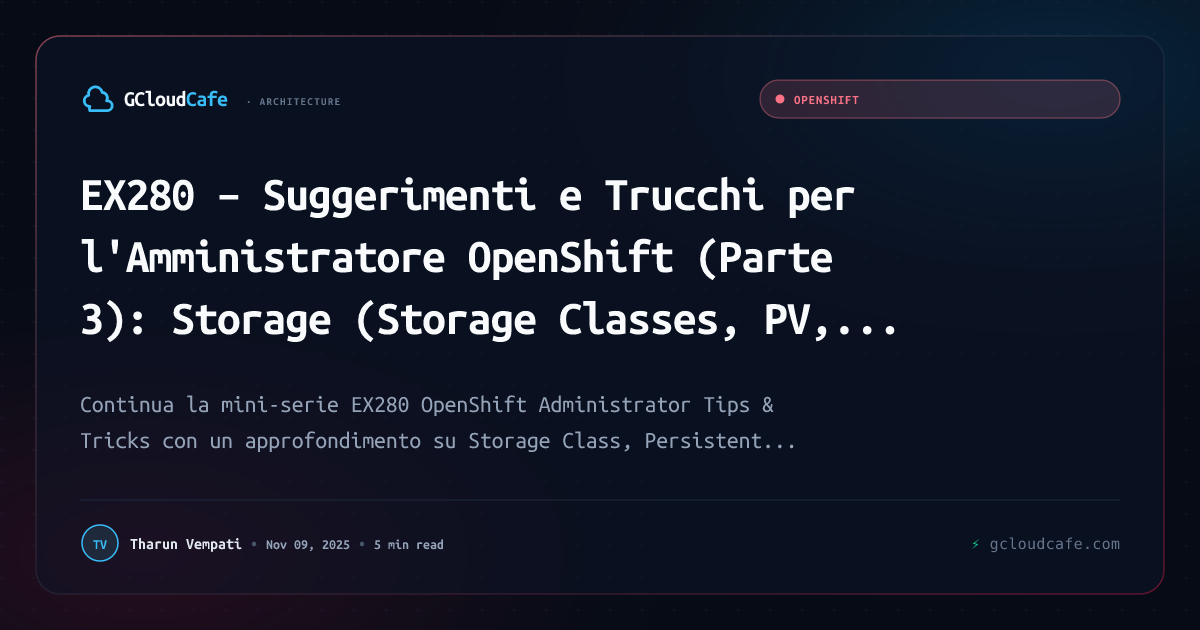
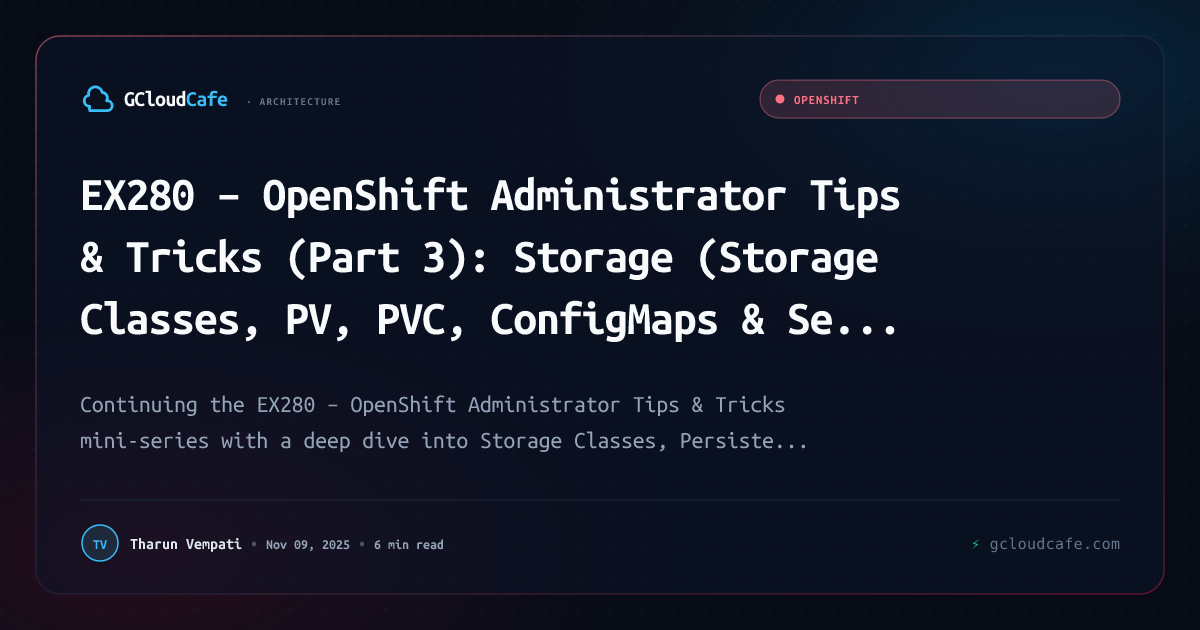
style(blog): standardize code block and terminal styling, elevate article typography and callouts

Changed region(s): [[0.0617, 0.2714, 0.7708, 0.4524], [0.0617, 0.4825, 0.7092, 0.5429], [0.0617, 0.6333, 0.6475, 0.7238]]

diff --git a/assets/js/blog-enhancements.js b/assets/js/blog-enhancements.js
@@ -90,11 +90,7 @@
     if (!blocks.length) return;
 
     blocks.forEach(function (pre) {
-      if (pre.parentNode.classList.contains("code-block-wrapper")) return;
-
-      var wrapper = document.createElement("div");
-      wrapper.className = "code-block-wrapper";
-      pre.parentNode.insertBefore(wrapper, pre);
+      if (pre.parentNode.classList.contains("code-block-wrapper") || pre.closest(".code-block-wrapper")) return;
 
       var code = pre.querySelector("code");
       var rawText = (code || pre).innerText || (code || pre).textContent || "";
@@ -120,7 +116,16 @@
       var iconClass = "fa-solid fa-code";
       var iconColor = "text-sky-400";
       var langLower = (lang + " " + filename).toLowerCase();
-      if (langLower.includes("bash") || langLower.includes("sh") || langLower.includes("shell") || langLower.includes("zsh")) {
+      var isTerminal = (
+        langLower.includes("bash") ||
+        langLower.includes("sh") ||
+        langLower.includes("shell") ||
+        langLower.includes("zsh") ||
+        langLower.includes("terminal") ||
+        langLower.includes("console")
+      );
+
+      if (isTerminal) {
         iconClass = "fa-solid fa-terminal";
         iconColor = "text-emerald-400";
       } else if (langLower.includes("yaml") || langLower.includes("yml")) {
@@ -145,6 +150,12 @@
         iconClass = "fa-solid fa-brackets-curly";
         iconColor = "text-yellow-400";
       }
+
+      var wrapper = document.createElement("div");
+      wrapper.className = isTerminal
+        ? "code-block-wrapper terminal-block-wrapper is-terminal"
+        : "code-block-wrapper editor-block-wrapper is-code";
+      pre.parentNode.insertBefore(wrapper, pre);
 
       // Multi-tab / Multi-CLI support inside code snippet
       // Matches: # [kubectl] or # [gcloud] or # [AWS CLI] or # --- TabName ---
@@ -171,16 +182,27 @@
       }
 
       var header = document.createElement("div");
-      header.className = "code-block-header";
+      header.className = isTerminal
+        ? "code-block-header terminal-header"
+        : "code-block-header editor-header";
 
-      var displayLabel = filename || lang;
-      var badgeHtml = '<span class="lang-tag"><i class="' + iconClass + ' ' + iconColor + ' mr-1 text-[11px]"></i> ' + escapeHtml(displayLabel) + '</span>';
+      var displayLabel = filename || (isTerminal && lang === "CODE" ? "TERMINAL" : lang);
+      var badgeHtml = isTerminal
+        ? '<span class="lang-tag terminal-tag"><i class="' + iconClass + ' ' + iconColor + ' mr-1 text-[11px]"></i> ' + escapeHtml(displayLabel) + '</span>'
+        : '<span class="lang-tag editor-tag"><i class="' + iconClass + ' ' + iconColor + ' mr-1 text-[11px]"></i> ' + escapeHtml(displayLabel) + '</span>';
       var lineCountHtml = '<span class="line-count-tag ml-2 text-slate-500 dark:text-slate-400 font-mono text-[11px]">' + lines.length + (lines.length === 1 ? ' line' : ' lines') + '</span>';
 
-      header.innerHTML = '<div class="flex items-center">' + badgeHtml + lineCountHtml + '</div>';
+      if (isTerminal) {
+        // Command line terminal styling with terminal traffic lights
+        var dotsHtml = '<div class="terminal-dots" aria-hidden="true"><span class="dot-red"></span><span class="dot-yellow"></span><span class="dot-green"></span></div>';
+        header.innerHTML = '<div class="flex items-center gap-3">' + dotsHtml + badgeHtml + lineCountHtml + '</div>';
+      } else {
+        // Clean editor styling for non-terminal code (YAML, Python, SQL, etc.) - NO terminal traffic dots
+        header.innerHTML = '<div class="flex items-center">' + badgeHtml + lineCountHtml + '</div>';
+      }
 
       var btn = document.createElement("button");
-      btn.className = "copy-code-btn blog-focus-ring";
+      btn.className = "copy-code-btn blog-focus-ring" + (isTerminal ? " terminal-copy-btn" : " editor-copy-btn");
       btn.setAttribute("aria-label", "Copy code to clipboard");
       btn.innerHTML = '<i class="fa-regular fa-copy"></i> Copy';
       header.appendChild(btn);
@@ -10500,9 +10522,9 @@
 
     codeBlocks.forEach(function (codeEl) {
       var pre = codeEl.parentElement;
-      if (!pre || pre.closest('.dev-terminal-wrapper')) return;
+      if (!pre || pre.closest('.dev-terminal-wrapper') || pre.closest('.code-block-wrapper')) return;
 
-      // Extract language class e.g. language-bash, language-yaml
+      // Extract language class e.g. language-bash
       var lang = 'terminal';
       var classes = codeEl.className.split(' ');
       for (var i = 0; i < classes.length; i++) {
@@ -10512,14 +10534,20 @@
         }
       }
 
+      var langLower = lang.toLowerCase();
+      var isTerminal = langLower.includes('bash') || langLower.includes('sh') || langLower.includes('shell') || langLower.includes('zsh') || langLower.includes('terminal') || langLower.includes('console');
+      if (!isTerminal) {
+        return; // Only terminal command line blocks receive terminal window chrome
+      }
+
       var wrapper = document.createElement('div');
-      wrapper.className = 'dev-terminal-wrapper';
+      wrapper.className = 'dev-terminal-wrapper code-block-wrapper terminal-block-wrapper is-terminal';
 
       var bar = document.createElement('div');
-      bar.className = 'dev-terminal-bar';
-      bar.innerHTML = '<div class="dev-terminal-dots"><span class="dot-red"></span><span class="dot-yellow"></span><span class="dot-green"></span></div>' +
-                      '<span class="dev-terminal-lang">' + escapeHtml(lang) + '</span>' +
-                      '<button class="dev-copy-btn" aria-label="Copy code to clipboard"><i class="fa-regular fa-copy"></i> Copy</button>';
+      bar.className = 'dev-terminal-bar code-block-header terminal-header';
+      bar.innerHTML = '<div class="dev-terminal-dots terminal-dots" aria-hidden="true"><span class="dot-red"></span><span class="dot-yellow"></span><span class="dot-green"></span></div>' +
+                      '<span class="dev-terminal-lang terminal-tag"><i class="fa-solid fa-terminal text-emerald-400 mr-1 text-[11px]"></i> ' + escapeHtml(lang) + '</span>' +
+                      '<button class="dev-copy-btn copy-code-btn blog-focus-ring" aria-label="Copy code to clipboard"><i class="fa-regular fa-copy"></i> Copy</button>';
 
       pre.parentNode.insertBefore(wrapper, pre);
       wrapper.appendChild(bar);

diff --git a/assets/scss/custom.scss b/assets/scss/custom.scss
@@ -291,15 +291,27 @@ pre code,
   color: #94a3b8;
 
   &::before {
-    content: '';
-    display: inline-block;
-    width: 9px;
-    height: 9px;
-    border-radius: 50%;
-    background: #ef4444;
-    box-shadow: 14px 0 0 #f59e0b, 28px 0 0 #10b981;
-    margin-right: 36px;
+    content: none !important;
+    display: none !important;
+  }
+
+  .terminal-dots,
+  .dev-terminal-dots {
+    display: inline-flex;
+    align-items: center;
+    gap: 0.375rem;
+    margin-right: 0.5rem;
     flex-shrink: 0;
+
+    span {
+      width: 0.625rem;
+      height: 0.625rem;
+      border-radius: 9999px;
+      display: inline-block;
+    }
+    .dot-red { background-color: #ff5f56; }
+    .dot-yellow { background-color: #ffbd2e; }
+    .dot-green { background-color: #27c93f; }
   }
 
   .lang-tag {
@@ -314,6 +326,18 @@ pre code,
     font-size: 0.7rem;
     display: inline-flex;
     align-items: center;
+  }
+
+  .terminal-tag {
+    color: #34d399 !important;
+    background: rgba(16, 185, 129, 0.12) !important;
+    border-color: rgba(16, 185, 129, 0.25) !important;
+  }
+
+  .editor-tag {
+    color: #f1f5f9 !important;
+    background: rgba(30, 41, 59, 0.8) !important;
+    border-color: rgba(51, 65, 85, 0.7) !important;
   }
 
   .line-count-tag {
@@ -1024,31 +1048,50 @@ kbd {
   }
 }
 
-/* ── 2. Developer Terminal Code Block Enhancement ── */
-.dev-terminal-wrapper {
+/* ── 2. Developer Terminal & Editor Code Block Standardization ── */
+.dev-terminal-wrapper,
+.terminal-block-wrapper,
+.code-block-wrapper.is-terminal {
   position: relative;
   margin: 1.75rem 0;
-  border-radius: 1rem;
+  border-radius: 1rem !important;
   overflow: hidden;
-  border: 1px solid rgba(56, 189, 248, 0.2);
-  background: #0d1117;
+  border: 1px solid rgba(56, 189, 248, 0.25) !important;
+  background: #070b14 !important;
   box-shadow: 0 10px 30px -10px rgba(0, 0, 0, 0.5), 0 0 20px -5px rgba(56, 189, 248, 0.08);
   transition: all 0.3s cubic-bezier(0.4, 0, 0.2, 1);
 
   &:hover {
-    border-color: rgba(56, 189, 248, 0.4);
+    border-color: rgba(56, 189, 248, 0.4) !important;
     box-shadow: 0 15px 35px -10px rgba(0, 0, 0, 0.6), 0 0 25px -3px rgba(56, 189, 248, 0.15);
   }
 }
 
-.dev-terminal-bar {
+.editor-block-wrapper,
+.code-block-wrapper.is-code {
+  position: relative;
+  margin: 1.75rem 0;
+  border-radius: 0.875rem !important;
+  overflow: hidden;
+  border: 1px solid #1e293b !important;
+  background: #080d19 !important;
+  box-shadow: 0 8px 24px -6px rgba(0, 0, 0, 0.35);
+  transition: border-color 0.2s ease;
+
+  &:hover {
+    border-color: #334155 !important;
+  }
+}
+
+.dev-terminal-bar,
+.terminal-header {
   display: flex;
   align-items: center;
   justify-content: space-between;
-  padding: 0.5rem 1rem;
-  background: rgba(15, 23, 42, 0.85);
+  padding: 0.55rem 1rem;
+  background: #050811 !important;
   backdrop-filter: blur(12px);
-  border-bottom: 1px solid rgba(255, 255, 255, 0.08);
+  border-bottom: 1px solid rgba(56, 189, 248, 0.15);
   font-family: ui-monospace, SFMono-Regular, Menlo, Monaco, Consolas, monospace;
   font-size: 0.75rem;
 }
@@ -2319,8 +2362,13 @@ table {
 
   code:not(pre code) {
     font-size: 0.875em !important;
-    padding: 0.15em 0.35em !important;
+    padding: 0.18em 0.45em !important;
     border-radius: 0.375rem !important;
+    font-family: ui-monospace, SFMono-Regular, Menlo, Monaco, Consolas, monospace !important;
+    background-color: rgba(226, 232, 240, 0.65) !important;
+    color: #0369a1 !important;
+    border: 1px solid rgba(203, 213, 225, 0.8) !important;
+    font-weight: 500;
   }
 }
 
@@ -2336,26 +2384,55 @@ table {
   h1, h2, h3, h4 {
     color: #f8fafc !important;
   }
+
+  code:not(pre code) {
+    background-color: rgba(30, 41, 59, 0.75) !important;
+    color: #38bdf8 !important;
+    border-color: rgba(51, 65, 85, 0.8) !important;
+    font-weight: 500;
+  }
 }
+
 .blog-article-content blockquote {
-  margin: 1.5rem 0;
-  border-top-right-radius: 1rem;
-  border-bottom-right-radius: 1rem;
-  border-left: 4px solid #94a3b8;
-  background-color: rgba(248, 250, 252, 0.8);
-  padding: 1.125rem 1.25rem;
-  color: #334155;
-  font-style: italic;
+  margin: 1.75rem 0;
+  border-radius: 0 0.875rem 0.875rem 0;
+  border-left: 4px solid #0284c7;
+  background-color: rgba(241, 245, 249, 0.8);
+  border-top: 1px solid rgba(226, 232, 240, 0.7);
+  border-right: 1px solid rgba(226, 232, 240, 0.7);
+  border-bottom: 1px solid rgba(226, 232, 240, 0.7);
+  padding: 1.15rem 1.4rem;
+  color: #1e293b;
+  font-style: normal;
+  box-shadow: 0 2px 8px -2px rgba(0, 0, 0, 0.05);
 }
+
 .dark .blog-article-content blockquote {
-  border-left-color: #475569;
-  background-color: rgba(15, 23, 42, 0.4);
-  color: #cbd5e1;
+  border-left-color: #38bdf8;
+  background-color: rgba(15, 23, 42, 0.65);
+  border-top-color: rgba(30, 41, 59, 0.8);
+  border-right-color: rgba(30, 41, 59, 0.8);
+  border-bottom-color: rgba(30, 41, 59, 0.8);
+  color: #e2e8f0;
+  box-shadow: 0 4px 12px -2px rgba(0, 0, 0, 0.25);
 }
+
 .blog-article-content blockquote p {
   margin: 0;
   font-size: 1.0625rem;
-  line-height: 1.7;
+  line-height: 1.72;
+}
+
+.blog-article-content blockquote code:not(pre code) {
+  background-color: rgba(56, 189, 248, 0.12) !important;
+  color: #0369a1 !important;
+  border-color: rgba(56, 189, 248, 0.25) !important;
+}
+
+.dark .blog-article-content blockquote code:not(pre code) {
+  background-color: rgba(56, 189, 248, 0.18) !important;
+  color: #38bdf8 !important;
+  border-color: rgba(56, 189, 248, 0.3) !important;
 }
 
 

diff --git a/content/english/blog/ex280-tips-part3.md b/content/english/blog/ex280-tips-part3.md
@@ -66,10 +66,11 @@ spec:
     path: /tmp
     server: 172.17.0.2
   persistentVolumeReclaimPolicy: Retain
----
+```
+
 Two fields here are absolutely critical:
-spec.nfs.path
-spec.nfs.server
+- `spec.nfs.path`
+- `spec.nfs.server`
 
 If either one is incorrect, your PVC will remain in a Pending state forever — which kills your exam time.
 
